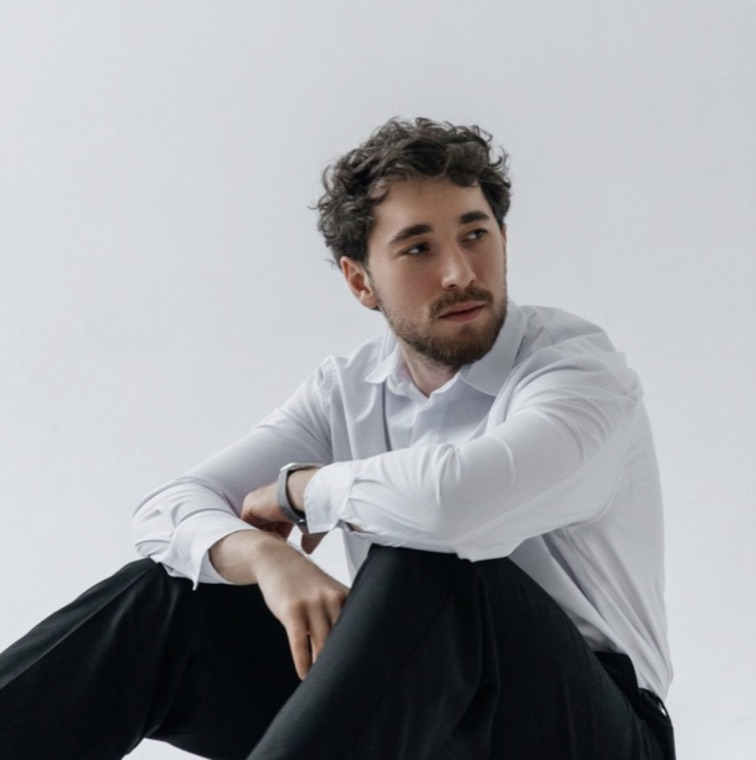
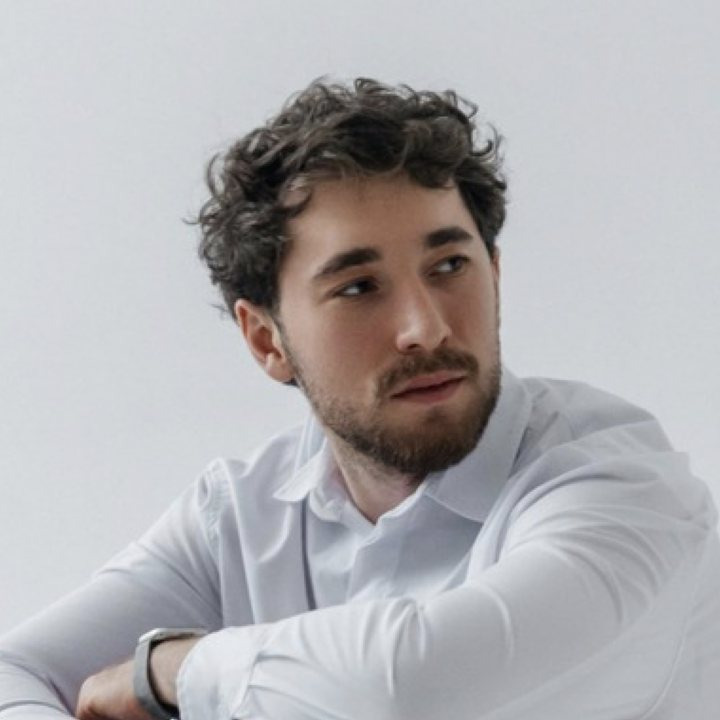
Кейсы: портретное кадрирование фотографий команды
Фотографии перекадрированы в квадрат по лицу и уменьшены до 720×720
(41 и 44 КБ вместо 75 и 100 КБ).

diff --git a/cases.html b/cases.html
@@ -130,7 +130,7 @@ a:hover{text-decoration:underline;text-underline-offset:.18em}
 .team{display:grid;gap:var(--s5);margin-top:var(--s5)}
 .member{display:grid;grid-template-columns:minmax(0,4fr) minmax(0,6fr);gap:clamp(24px,4vw,52px);padding-top:var(--s5);border-top:1px solid var(--line)}
 .member:first-child{padding-top:0;border-top:0}
-.member__photo{display:block;width:100%;height:auto;max-width:180px;aspect-ratio:1;object-fit:cover;object-position:50% 18%;background:var(--paper);border-radius:var(--radius);margin-bottom:var(--s3);filter:grayscale(1) contrast(1.02)}
+.member__photo{display:block;width:100%;height:auto;max-width:180px;aspect-ratio:1;object-fit:cover;object-position:50% 50%;background:var(--paper);border-radius:var(--radius);margin-bottom:var(--s3);filter:grayscale(1) contrast(1.02)}
 .member__link{margin-top:10px;font-size:14.5px}
 .member__cases{list-style:none;margin:var(--s4) 0;padding:0}
 .member__cases li{padding-top:var(--s3);margin-top:var(--s3);border-top:1px solid var(--line)}
@@ -607,7 +607,7 @@ a:hover{text-decoration:underline;text-underline-offset:.18em}
 
       <div class="member">
         <div>
-          <img class="member__photo" src="img/bogdan.jpg" alt="Богдан Клягин" width="760" height="760" loading="lazy">
+          <img class="member__photo" src="img/bogdan.jpg" alt="Богдан Клягин" width="720" height="720" loading="lazy">
           <p class="member__name">Богдан Клягин</p>
           <p class="member__role">Product &amp; Project Lead</p>
           <p class="member__years">8 лет — предпринимательство<br>8 лет — IT и технологические продукты<br>10 лет — digital и performance-маркетинг</p>
@@ -628,7 +628,7 @@ a:hover{text-decoration:underline;text-underline-offset:.18em}
 
       <div class="member">
         <div>
-          <img class="member__photo" src="img/alexey.jpg" alt="Алексей Мирошниченко" width="760" height="760" loading="lazy">
+          <img class="member__photo" src="img/alexey.jpg" alt="Алексей Мирошниченко" width="720" height="720" loading="lazy">
           <p class="member__name">Алексей Мирошниченко</p>
           <p class="member__role">Technical Lead / Solution Architect</p>
           <p class="member__years">7 лет коммерческой разработки</p>
